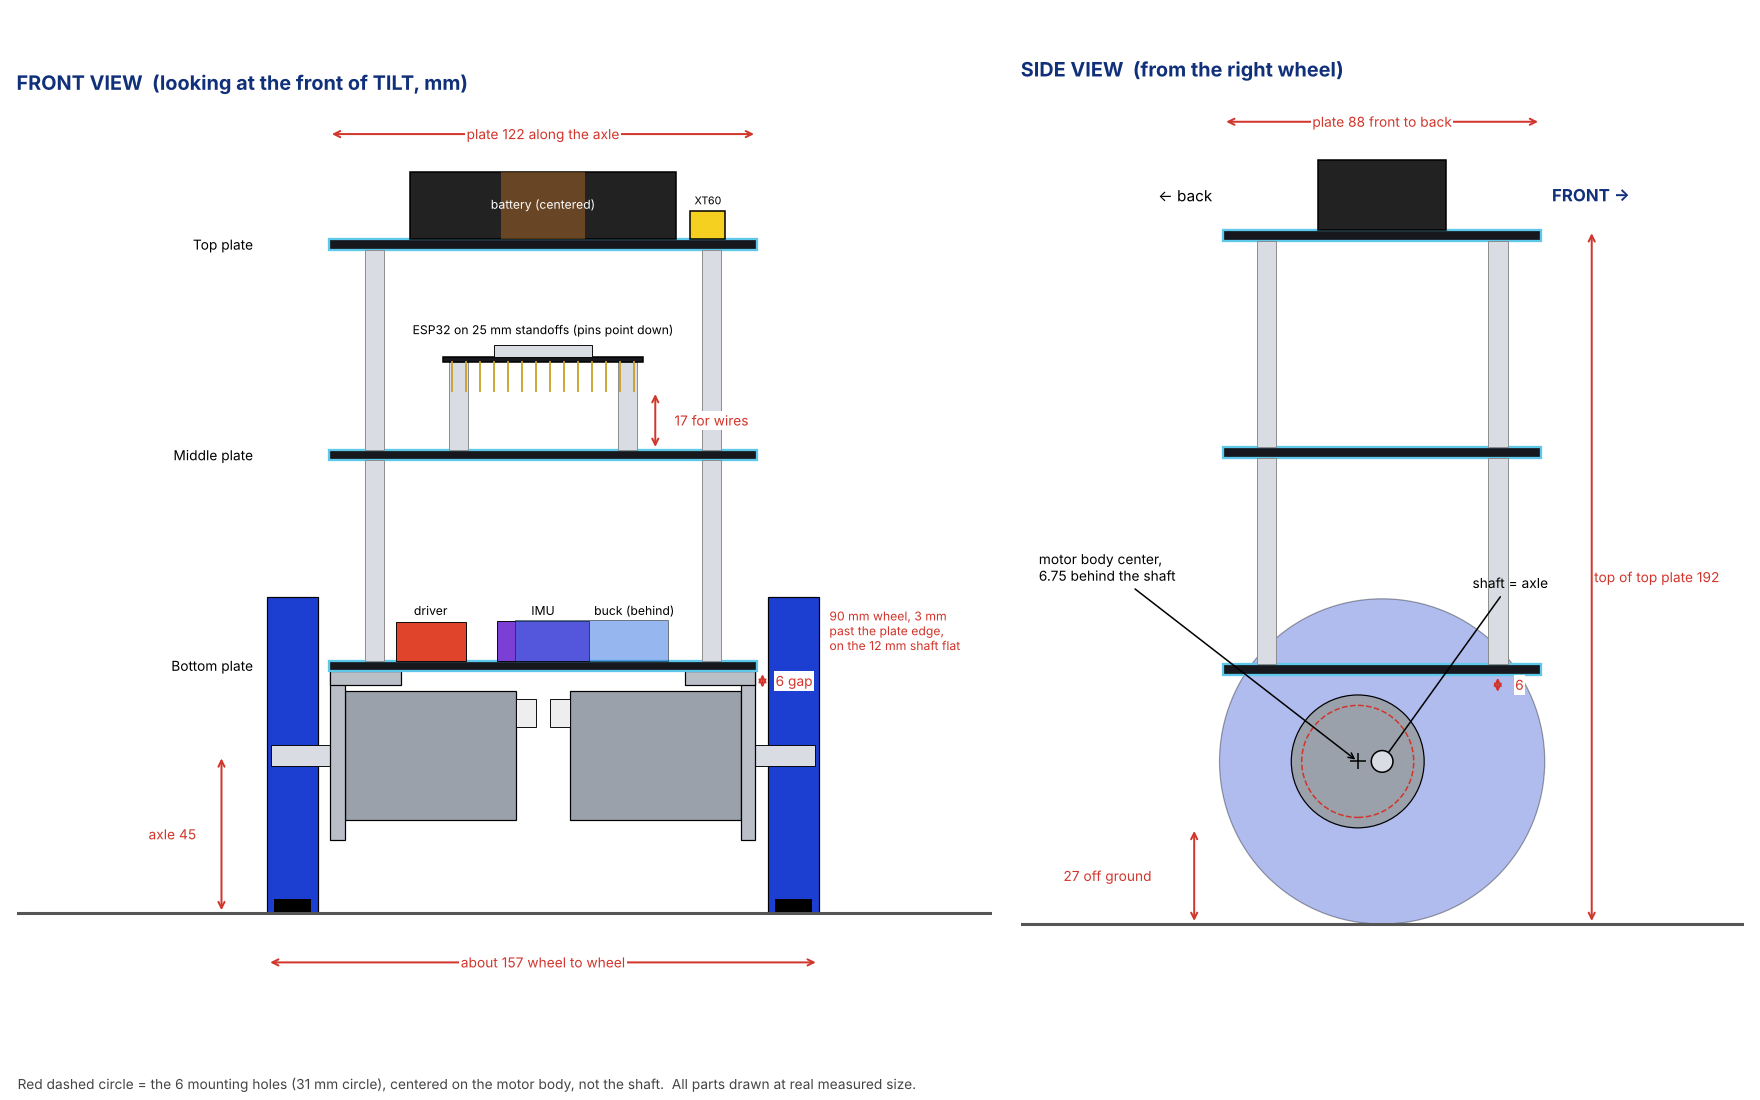
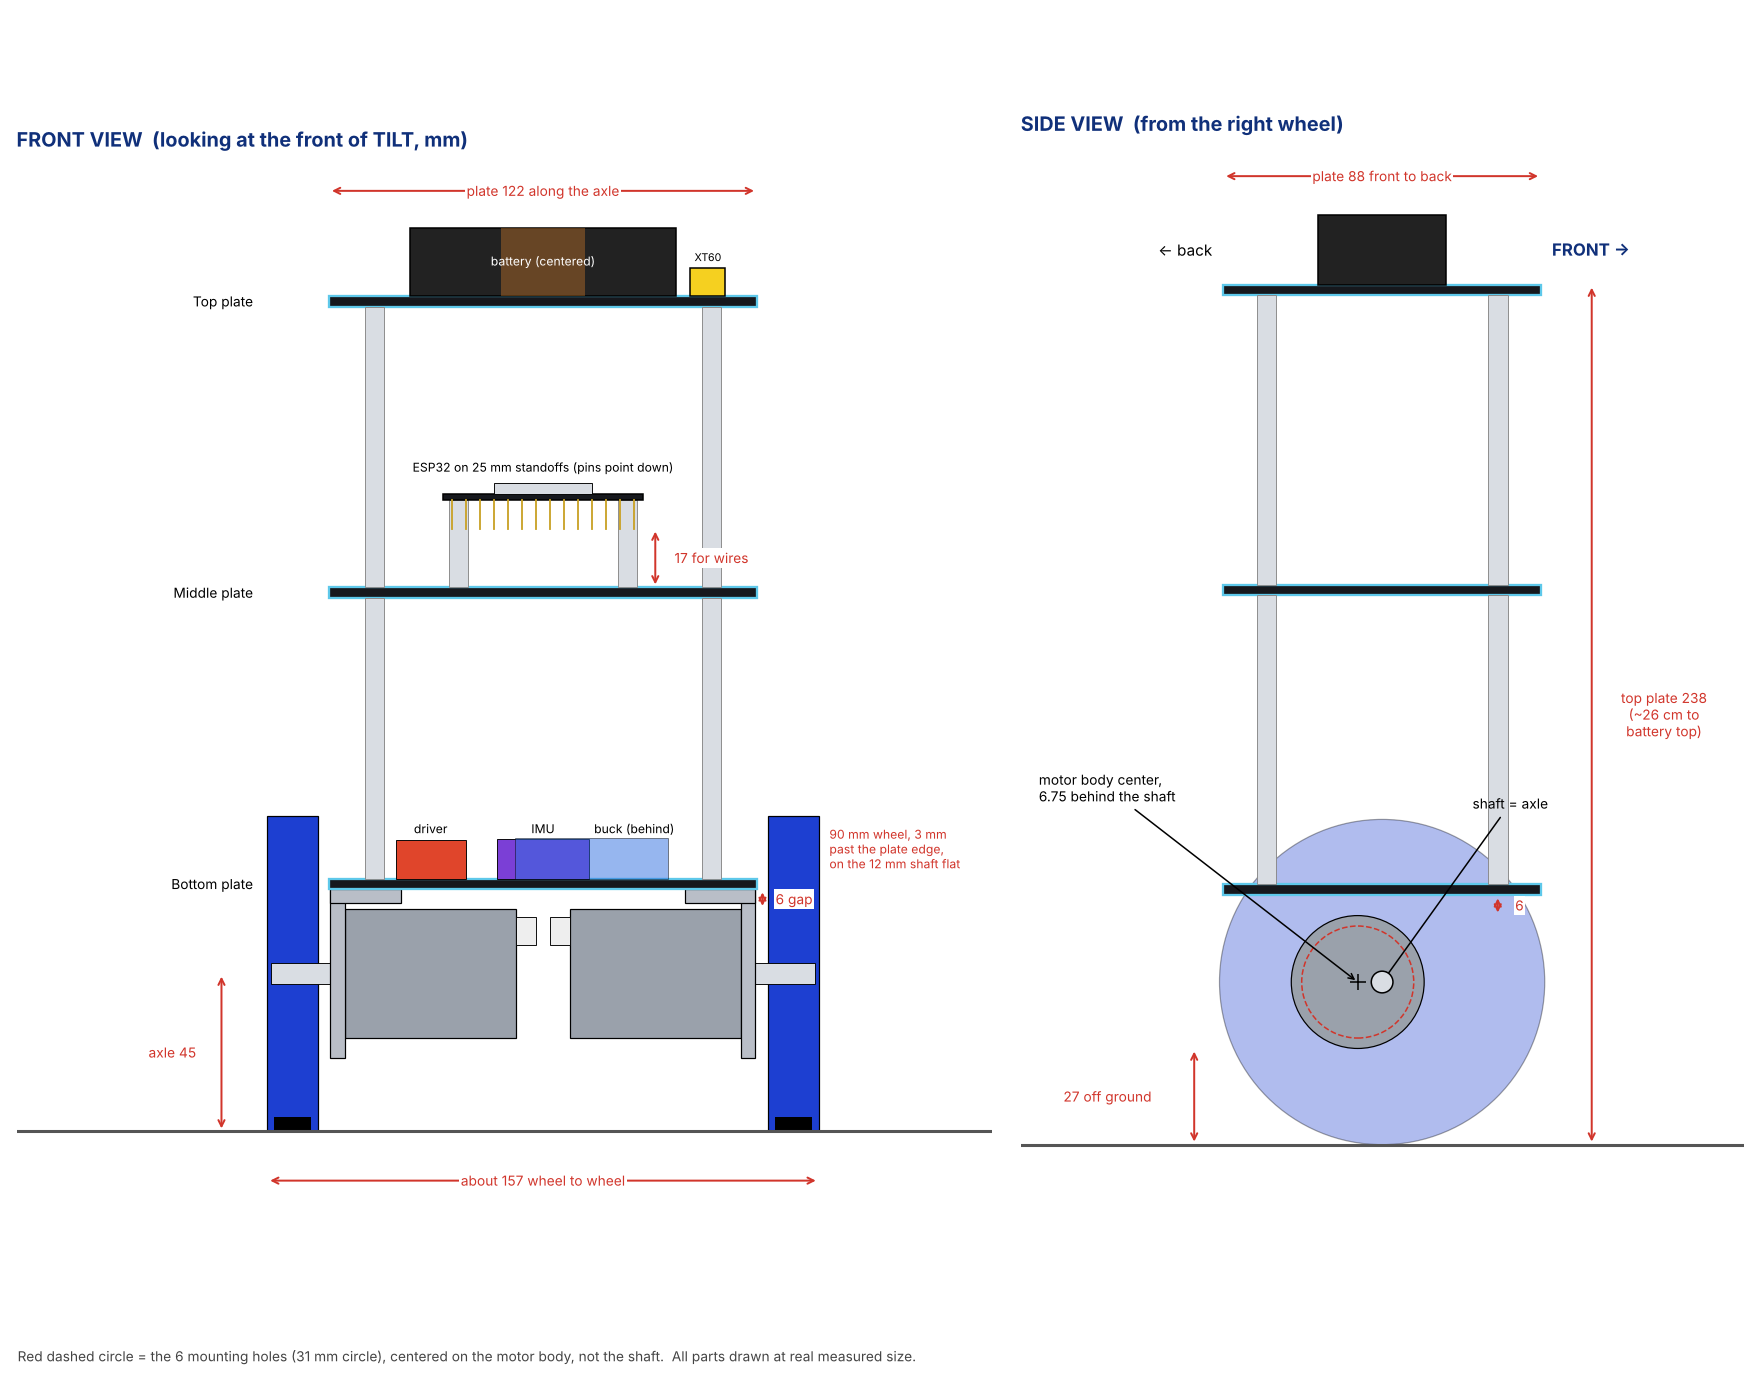
taller robot

diff --git a/cad/layout.md b/cad/layout.md
@@ -1,4 +1,8 @@
-# Layout (v1, after measuring)
+# Layout (v2, after measuring)
+
+![TILT v2](../images/layout/tilt-v2-annotated.png)
+
+This is what TILT looks like now: about 26 cm tall, 90 mm wheels, and every part drawn at its measured size.
 
 Once every part was measured (see [measurements.md](measurements.md)), I checked the first render against the real numbers. A few things didn't work, so I changed them before starting the CAD. All sizes are in mm.
 
@@ -12,6 +16,7 @@ Once every part was measured (see [measurements.md](measurements.md)), I checked
 4. **ESP32 is bolted down on 25 mm M3 standoffs (not printed pegs).** It has M3 holes, and its pins point down. 25 mm leaves about 17 mm under the pins for jumper wires, and the plate has slots under both pin rows so wires can go straight down. The USB port faces the side so I can plug in my laptop.
 5. **IMU is in the center of the bottom plate, right over the axle.** That spot moves the least when the robot rocks, so the tilt readings are cleaner. Its X axis lines up with the axle. The buck converter moved to the back so it clears the standoffs and the motor mount tabs, and the bottom plate has slots for the motor wires.
 6. **Battery is centered over the axle.** It's smaller than the render showed (76 x 35.6 x 19.3), and centering it keeps the robot from being front- or back-heavy.
+7. **Taller: about 26 cm to the top of the battery (was about 19).** The standoffs between plates are 80 mm now instead of 57. A taller robot tips over more slowly, so the motors get more time to catch it, and it's more fun to watch. I didn't go taller than this because long standoffs start to wobble and it falls harder when I'm tuning. If Thinkbox doesn't have 80 mm standoffs, I can stack shorter M3 male-female ones.
 
 ## Front and side views
 
@@ -21,9 +26,10 @@ Once every part was measured (see [measurements.md](measurements.md)), I checked
 | --- | --- |
 | Axle | 45 |
 | Bottom plate | 69 to 72 |
-| Middle plate | 129 to 132 |
-| Top plate | 189 to 192 |
-| Standoffs between plates | 57 long, M3 |
+| Middle plate | 152 to 155 |
+| Top plate | 235 to 238 |
+| Top of the battery | about 257 |
+| Standoffs between plates | 80 long, M3 |
 
 Keeping it tall is on purpose. A taller robot falls over more slowly, which gives slow motors more time to react.
 
